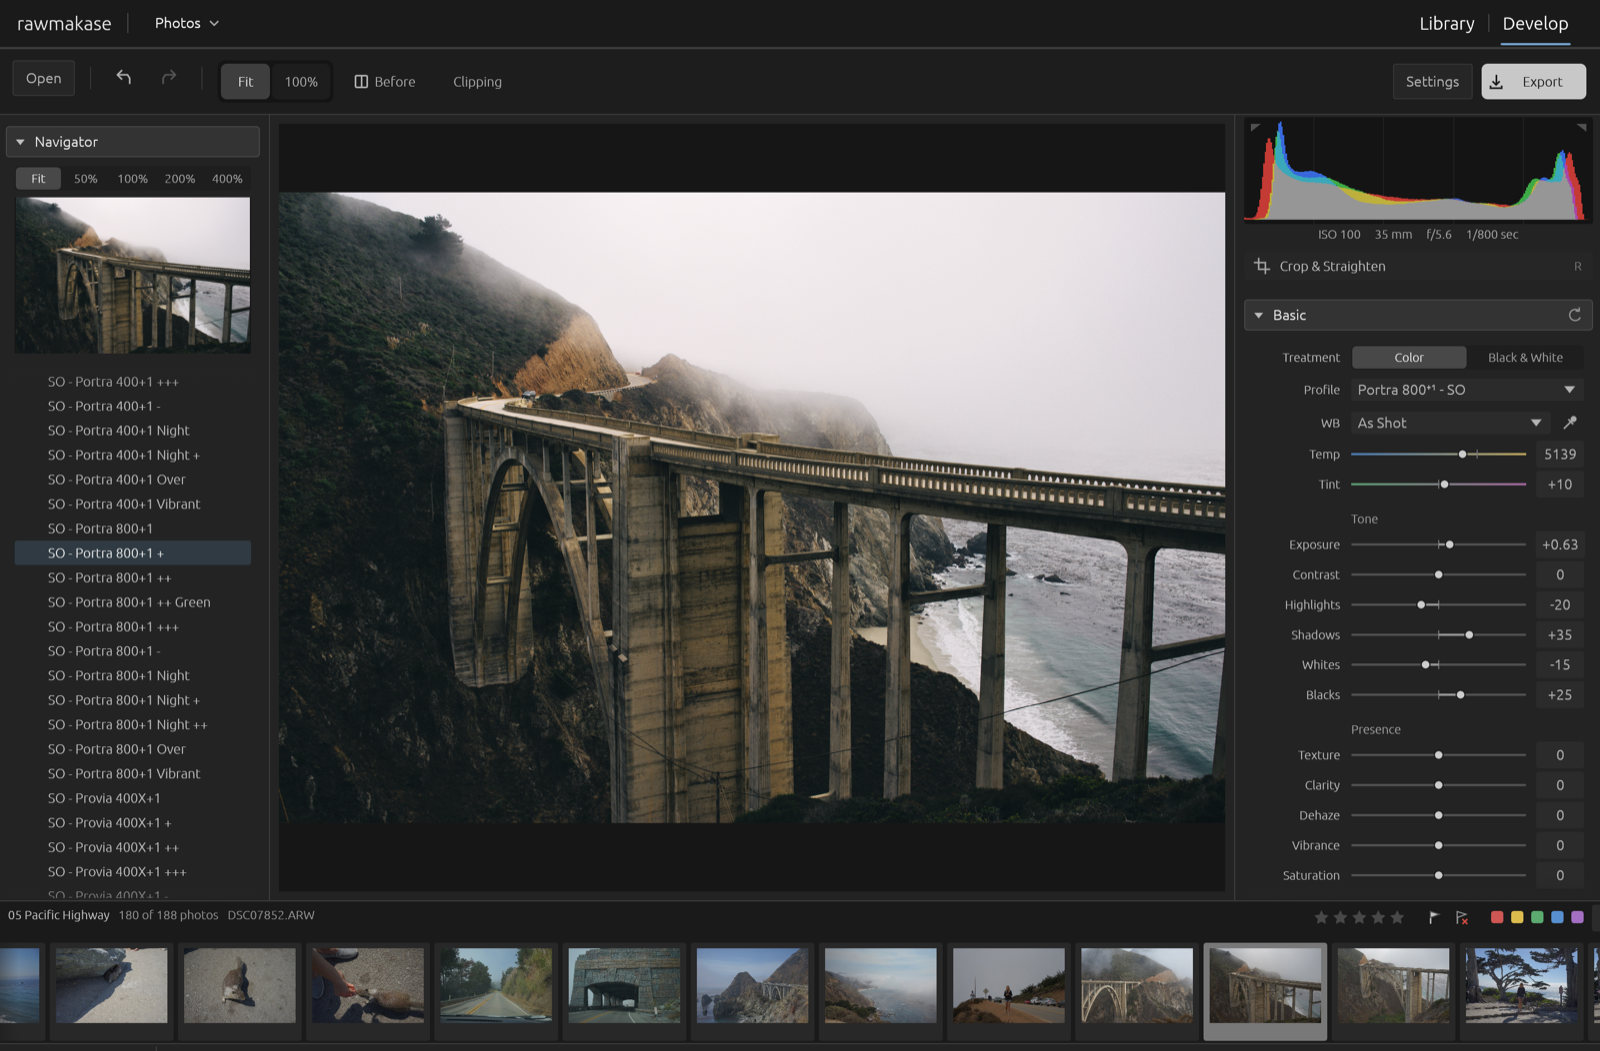
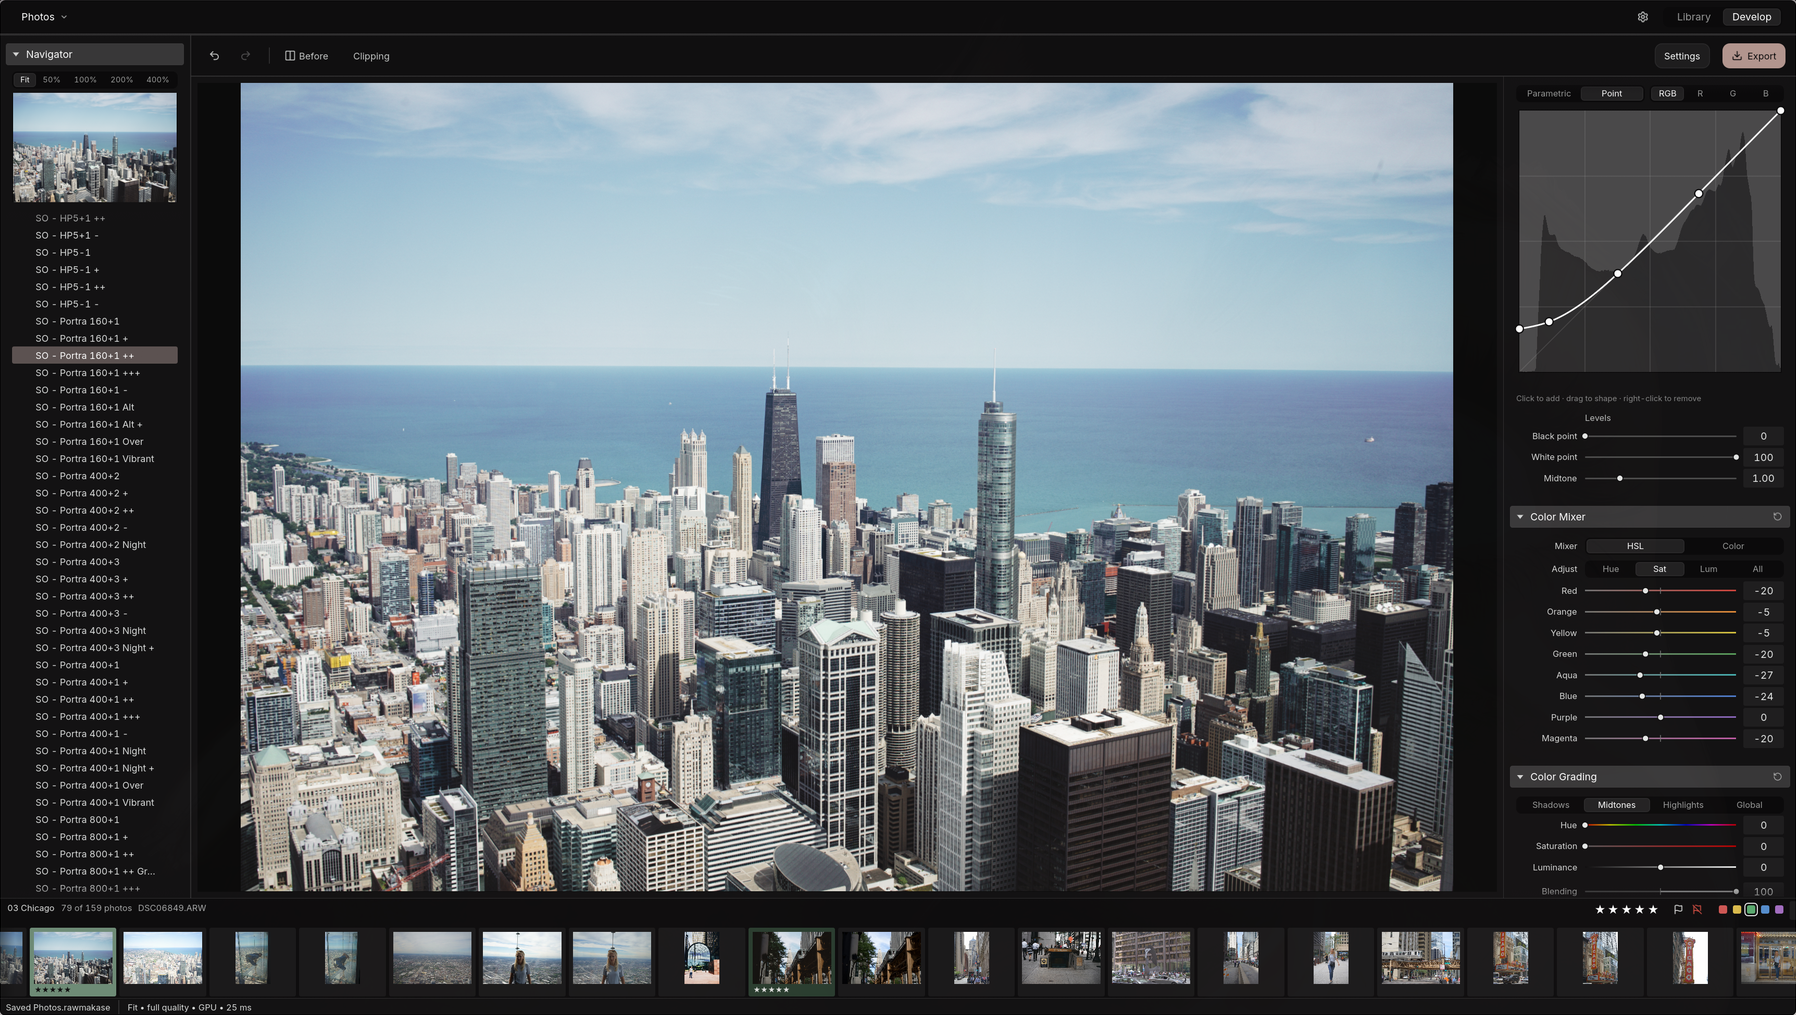
Show the new screenshot on the homepage
The previous commit only renamed the old image; this adds the new
screenshot and points the template at it.

diff --git a/layouts/index.html b/layouts/index.html
@@ -13,7 +13,7 @@
 {{- $dl := printf "%s/releases/download/v%s/" $repo $v -}}
 {{- $releases := printf "%s/releases/latest" $repo -}}
 {{- $css := resources.Get "css/main.css" | minify | fingerprint -}}
-{{- $shot := resources.Get "images/screenshot.png" -}}
+{{- $shot := resources.Get "images/screenshot-2026-09-30.png" -}}
 {{- $shotLarge := $shot.Resize "1600x webp q82" -}}
 {{- $shotSmall := $shot.Resize "800x webp q80" -}}
 <!doctype html>
@@ -68,7 +68,7 @@
 
     <section class="video wrap" aria-label="Video tour">
       <figure class="frame">
-        <img src="{{ $shotLarge.RelPermalink }}" srcset="{{ $shotSmall.RelPermalink }} 800w, {{ $shotLarge.RelPermalink }} 1600w" sizes="(max-width: 1180px) 100vw, 1120px" width="{{ $shotLarge.Width }}" height="{{ $shotLarge.Height }}" alt="RAWmakase Develop view with presets, the photo and tone controls" loading="eager">
+        <img src="{{ $shotLarge.RelPermalink }}" srcset="{{ $shotSmall.RelPermalink }} 800w, {{ $shotLarge.RelPermalink }} 1600w" sizes="(max-width: 1180px) 100vw, 1120px" width="{{ $shotLarge.Width }}" height="{{ $shotLarge.Height }}" alt="RAWmakase Develop view with presets, the photo and curve and color controls" loading="eager">
         <div class="play">
           <span class="disc" aria-hidden="true"><svg viewBox="0 0 24 24"><path d="M8 5.5v13l10.5-6.5z"/></svg></span>
           <span class="play-label">Video tour coming soon</span>
